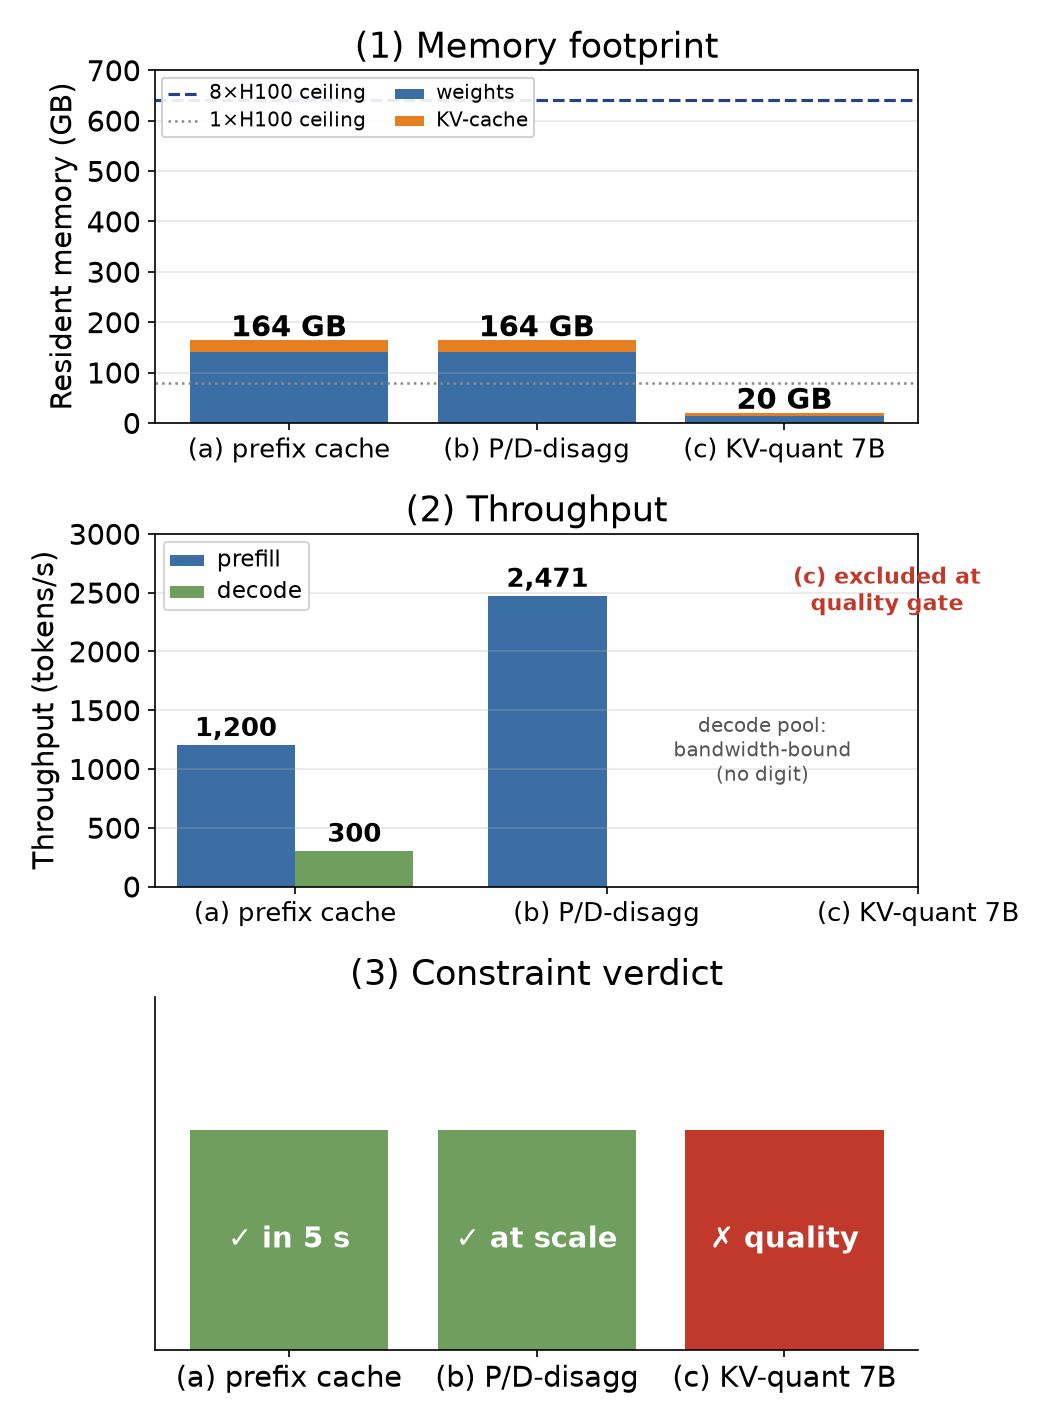
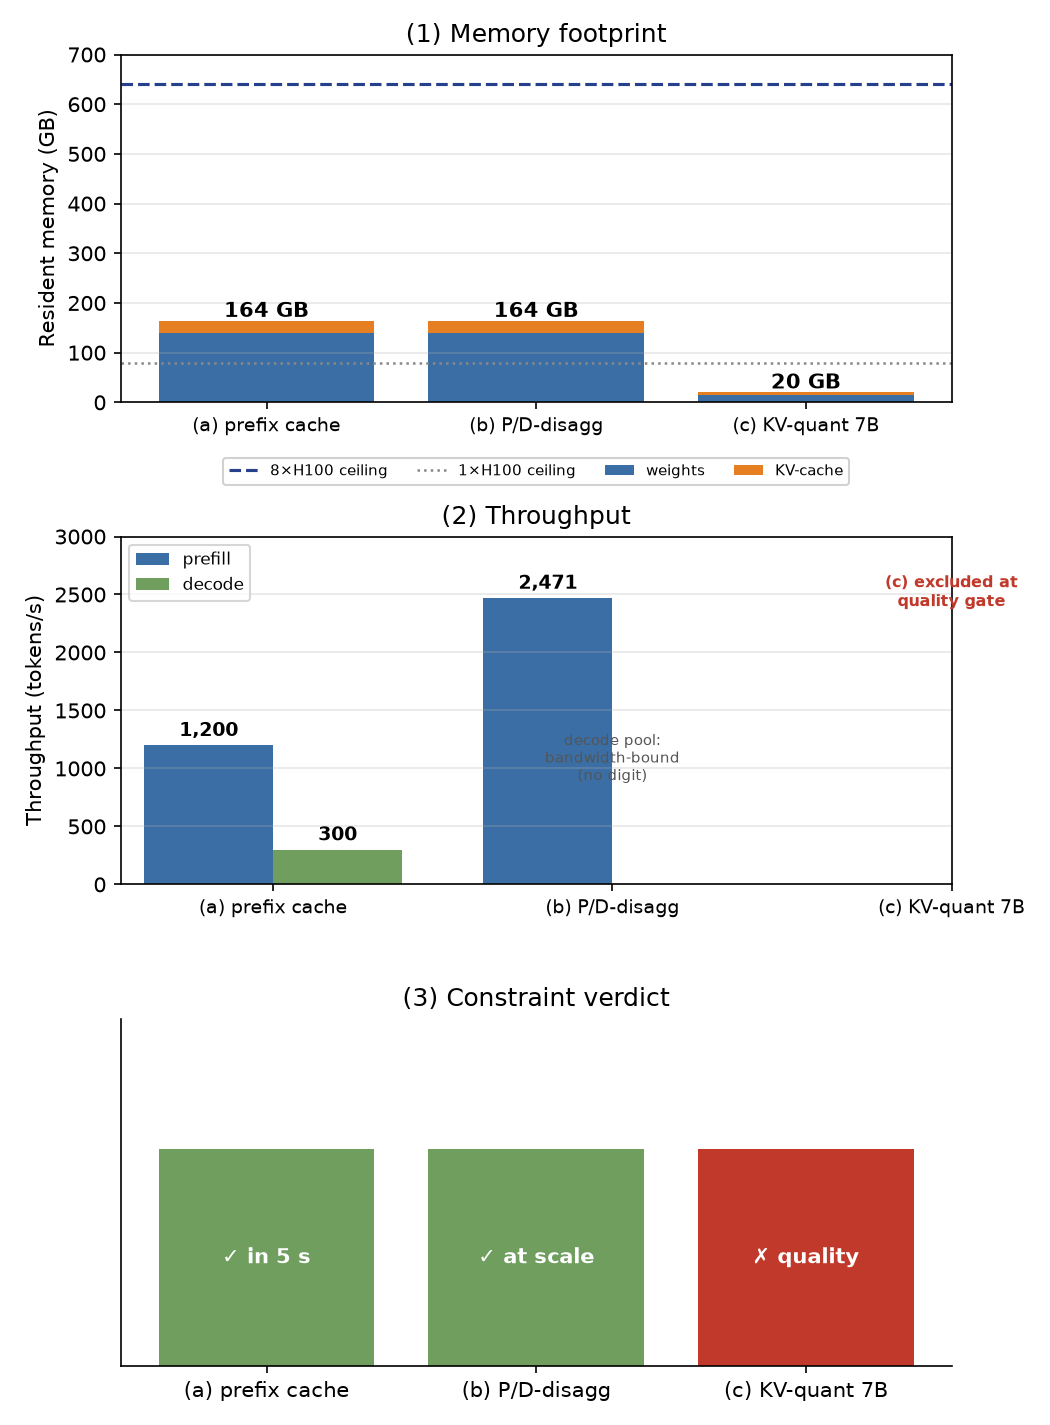
Fix Fig 12.1: move legend below axes, reposition decode/excluded annotations clear of data

diff --git a/render/fig_ch12.py b/render/fig_ch12.py
@@ -35,7 +35,7 @@ ax.axhline(80, color='#888', ls=':', lw=1.2, label='1×H100 ceiling')
 ax.set_xticks(range(3)); ax.set_xticklabels(cands, fontsize=9)
 ax.set_ylabel('Resident memory (GB)')
 ax.set_title('(1) Memory footprint')
-ax.legend(fontsize=7, loc='upper left', ncol=2, framealpha=0.9)
+ax.legend(fontsize=7, loc='upper center', bbox_to_anchor=(0.5, -0.14), ncol=4, framealpha=0.9)
 ax.grid(alpha=0.3, axis='y')
 ax.set_ylim(0, 700)
 
@@ -55,9 +55,9 @@ ax.legend(fontsize=8, loc='upper left')
 ax.grid(alpha=0.3, axis='y')
 ax.set_ylim(0, 3000)
 # qualitative labels where the table has no single digit
-ax.text(1.5, 900, 'decode pool:\nbandwidth-bound\n(no digit)', ha='center',
+ax.text(1.0, 900, 'decode pool:\nbandwidth-bound\n(no digit)', ha='center',
         fontsize=7, color='#555')
-ax.text(1.9, 2350, '(c) excluded at\nquality gate', ha='center', fontsize=7.5,
+ax.text(2.0, 2400, '(c) excluded at\nquality gate', ha='center', fontsize=7.5,
         color='#c0392b', fontweight='bold')
 
 # Panel 3: latency / SLO verdict (assertions, no uncertainty '?')
